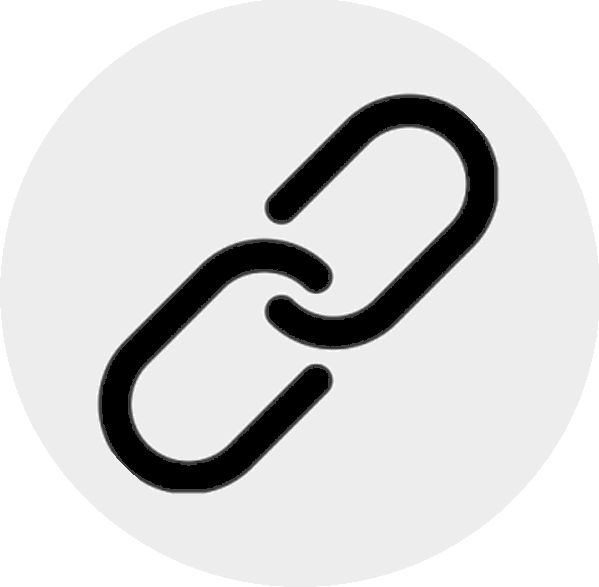
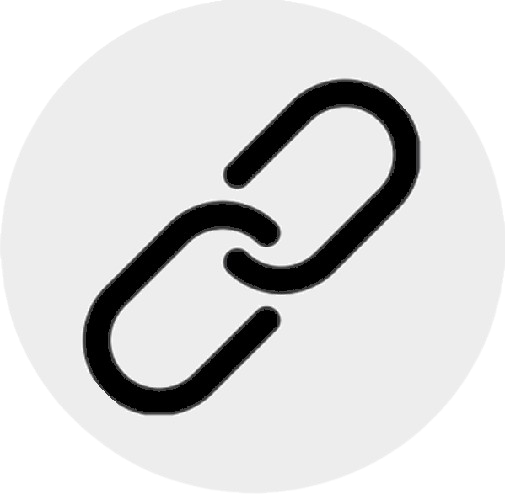
😮添加示例页面，添加图片，修改图标为透明背景

diff --git a/README.md b/README.md
@@ -2,6 +2,8 @@
 
 # 友情链接自动检查项目
 
+[示例页面](https://check.zeabur.app)
+
 这个项目旨在自动检查从互联网上托管的JSON文件中的链接的可访问性。它利用GitHub Actions来定期调度检查，并将结果输出为JSON文件，可以部署到如Vercel等平台以便于访问。该项目基于并改进了[butterfly-check-links](https://github.com/shangskr/butterfly-check-links.git)项目。
 
 ## 功能
@@ -98,6 +100,10 @@ jobs:
 5. 在“Secret”字段中粘贴你的Personal Access Token（个人访问令牌）。
 6. 点击“Add secret”按钮保存。
 
+其中`PAT_TOKEN`请在右上角设置，开发者选项自行生成：
+
+![](/images/PAT.png)
+
 ### 配置仓库权限
 
 在GitHub仓库的设置中，确保Actions有写权限，步骤如下：
@@ -108,7 +114,109 @@ jobs:
 4. 在“Workflow permissions”部分，选择“Read and write permissions”。
 5. 点击“Save”按钮保存设置。
 
-### 链接检查脚本说明
+### 部署到 Vercel 或 Zeabur
+
+在 Vercel 或 Zeabur 选择对应仓库，按照以下步骤进行操作：
+
+1. **登录 Vercel 或 Zeabur**：
+   - 如果还没有账户，请先注册一个 Vercel 或 Zeabur 账户。
+   - 登录后进入仪表板。
+
+2. **导入 GitHub 仓库**：
+   - 点击“New Project”或“Import Project”按钮。
+   - 选择“Import Git Repository”。
+   - 连接到您的 GitHub 账户，并选择该链接检查项目的仓库。
+
+3. **配置项目**：
+   - 确保选择正确的分支（如 `main`）。
+   - 对于 Vercel，在“Build and Output Settings”中，确保 `output.json` 文件在构建输出目录中。
+
+4. **部署项目**：
+   - 点击“Deploy”按钮开始部署。
+   - 部署完成后，Vercel 或 Zeabur 会生成一个 URL，您可以使用这个 URL 访问部署的网页。
+
+### 通过 API 获取数据
+
+该项目还生成了一个 JSON 文件，通过该文件可以获取最新的链接检查结果。您可以使用任何支持 HTTP 请求的编程语言或工具来获取此 JSON 数据。
+
+API地址如下（用本站部署的作为示例）：
+
+```txt
+https://check.zeabur.app/result.json
+```
+
+
+
+以下是通过`Javascript`获取无法访问链接数据的简单页面示例，具体请自行编写：
+
+```html
+
+<!DOCTYPE html>
+<html lang="en">
+<head>
+    <meta charset="UTF-8">
+    <title>友链检测</title>
+</head>
+<body>
+    <div id="inaccessibleLinksContainer"></div>
+
+    <script>
+        async function fetchInaccessibleLinks() {
+            const jsonUrl = 'https://your-deployed-url.com/result.json';
+            try {
+                const response = await fetch(jsonUrl);
+                if (!response.ok) {
+                    throw new Error(`HTTP error! status: ${response.status}`);
+                }
+                const data = await response.json();
+                displayInaccessibleLinks(data.inaccessible_links);
+            } catch (error) {
+                console.error("Fetch error: ", error);
+            }
+        }
+
+        function displayInaccessibleLinks(links) {
+            const container = document.getElementById('inaccessibleLinksContainer');
+            container.innerHTML = ''; // 清空容器
+            links.forEach(link => {
+                const linkElement = document.createElement('p');
+                linkElement.textContent = link;
+                container.appendChild(linkElement);
+            });
+        }
+
+        fetchInaccessibleLinks();
+    </script>
+</body>
+</html>
+
+```
+
+### JSON 结构介绍
+
+链接检查结果以 JSON 格式存储，主要包含以下字段：
+
+- `accessible_links`: 可访问的链接列表。
+- `inaccessible_links`: 不可访问的链接列表。
+- `timestamp`: 生成检查结果的时间戳。
+
+以下是一个示例 JSON 文件结构：
+
+```json
+{
+    "accessible_links": [
+        "https://example1.com",
+        "https://example2.com"
+    ],
+    "inaccessible_links": [
+        "https://example3.com",
+        "https://example4.com"
+    ],
+    "timestamp": "2024-06-19T12:34:56"
+}
+```
+
+通过以上文件，你可以自行编篡js代码进行主题适配，这里我不再进行进一步介绍。
 
 #### `test-friend.py`
 
